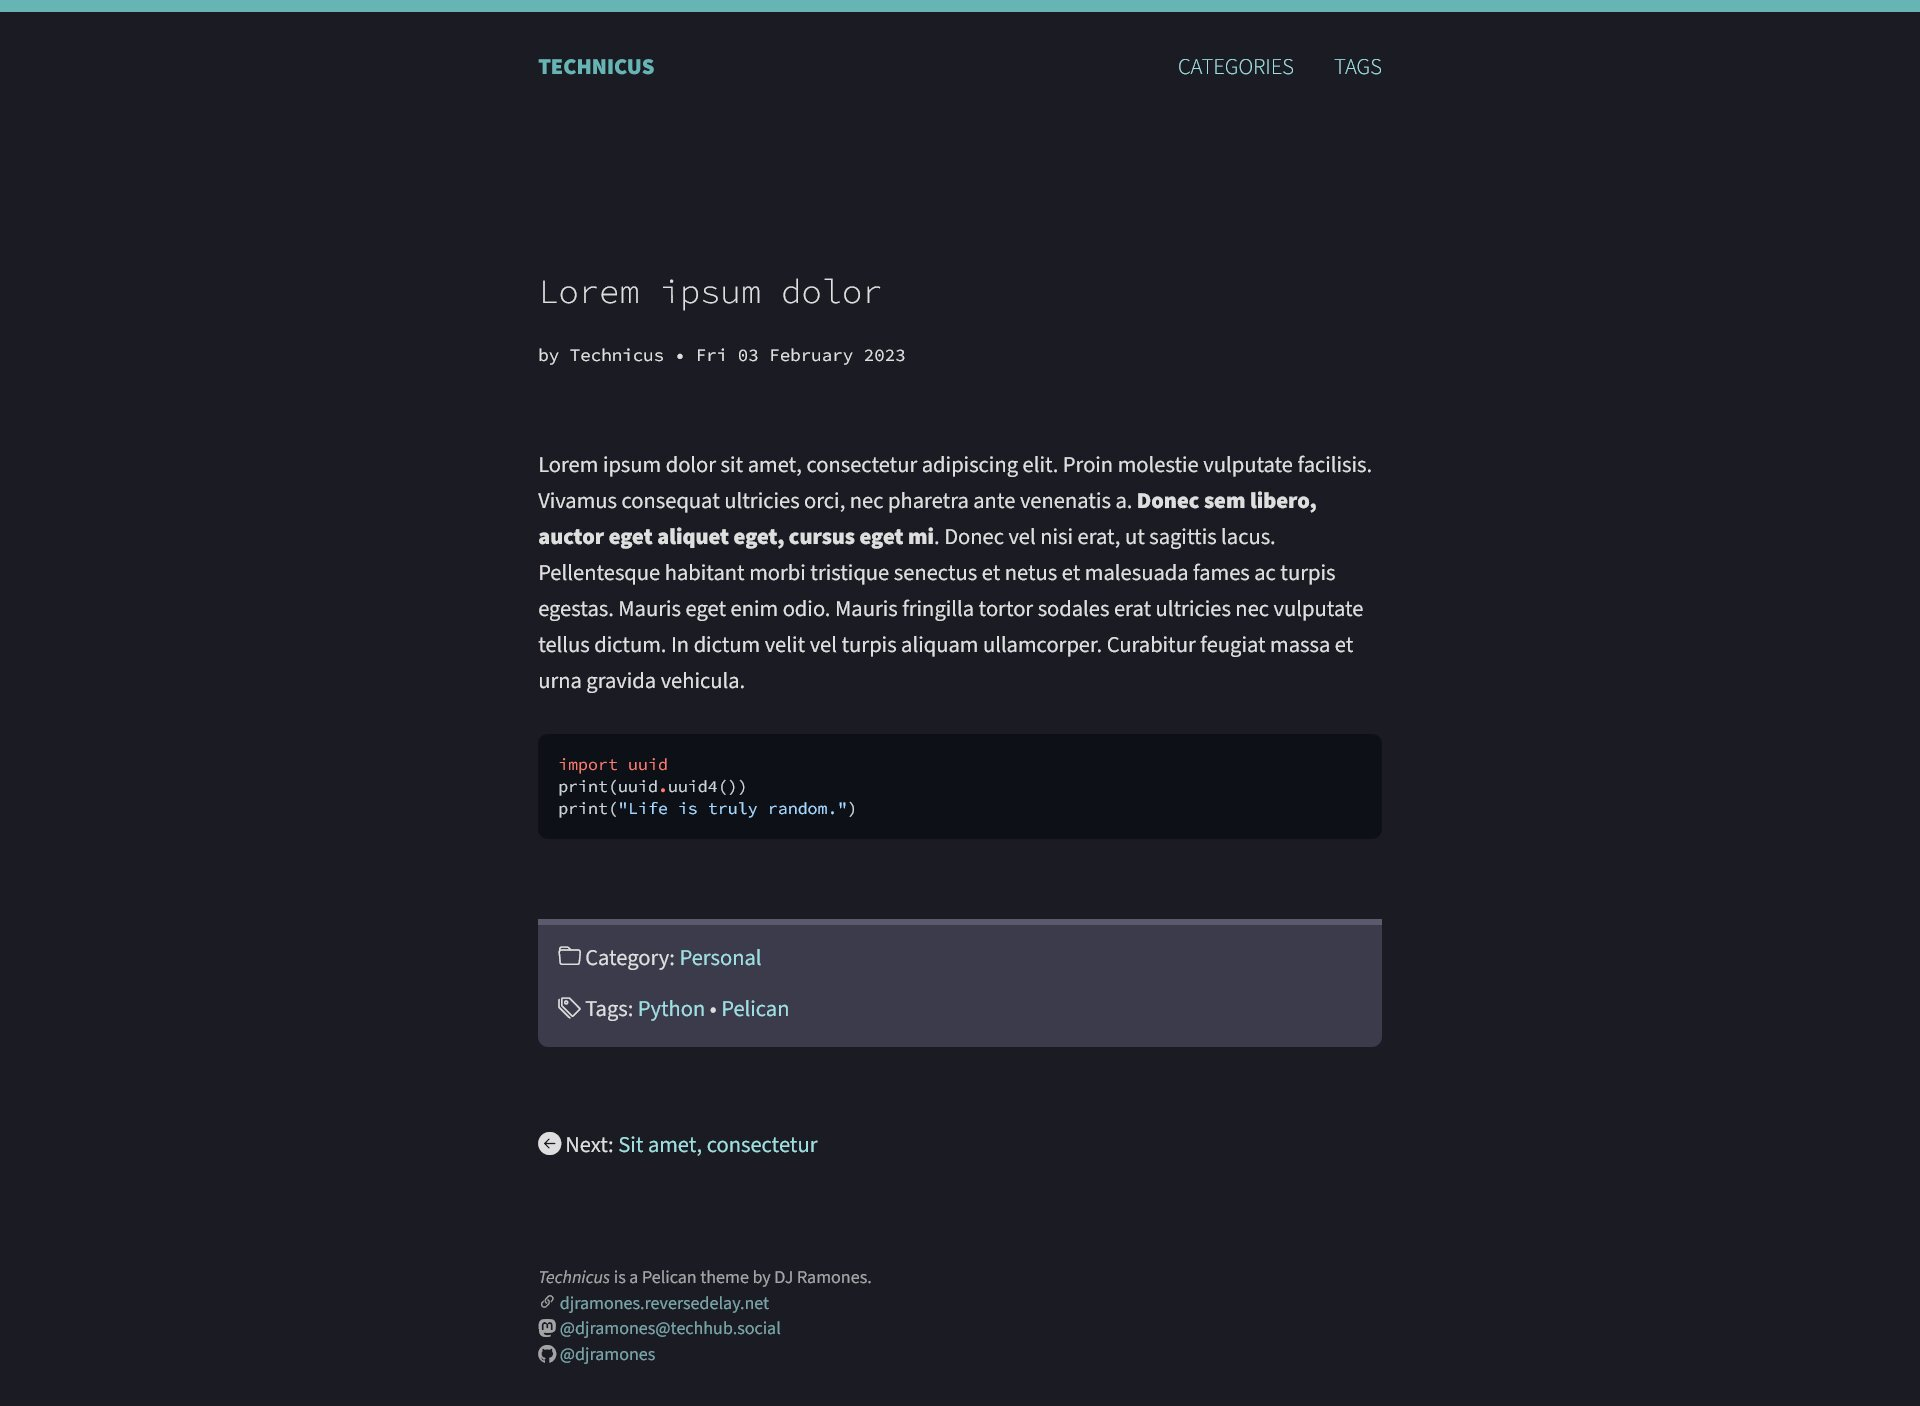
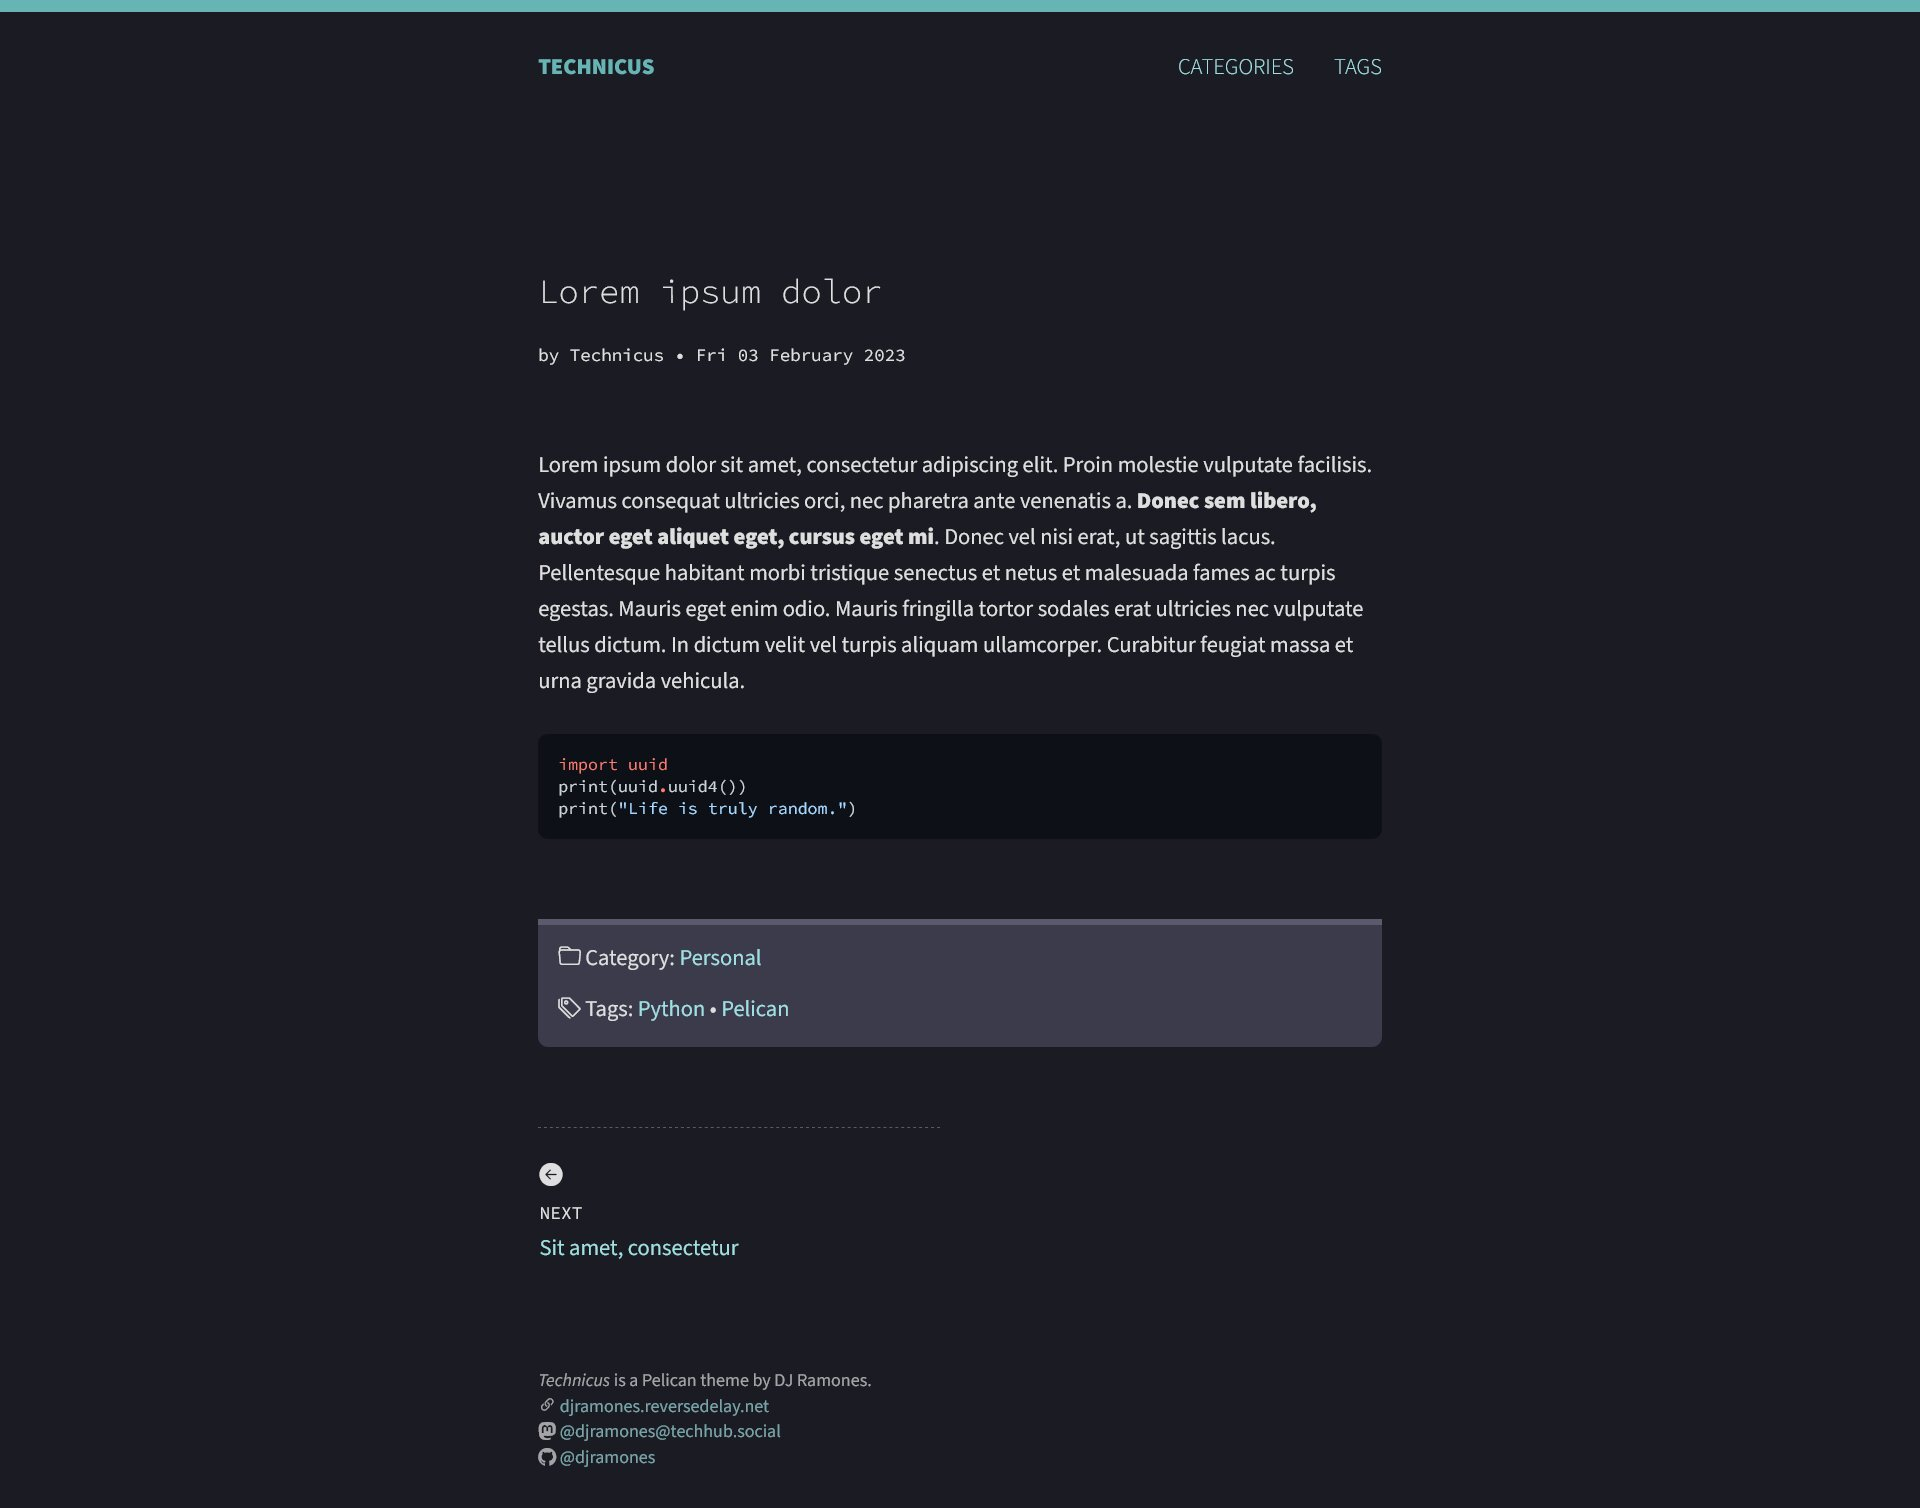
Update pagination links design

diff --git a/technicus/static/css/style.css b/technicus/static/css/style.css
@@ -74,11 +74,20 @@ body > footer:hover {
 .pagination-article {
     margin: 1rem 0;
     display: flex;
-    justify-content: space-between;
+    gap: 2rem;
 }
-.pagination-article {
-    flex-direction: column;
-    gap: 1.5rem;
+.pagination-index > div,
+.pagination-article > div {
+    flex: 1;
+    /* Fix Bootstrap icon clipping with padding: */
+    padding-left: 1px;
+    padding-right: 1px;
+}
+.pagination-index { opacity: 80%;}
+.pagination-index:hover { opacity: 100%;}
+.pagination-article-block {
+    border-top: 1px dashed #5a5a6f;
+    padding-top: 1.5rem;
 }
 
 .tags-all-list {
@@ -107,7 +116,8 @@ body {
 }
 h2, h4, h5, h6,
 time, pre, code,
-.mono {
+.mono, .pagination-index,
+.pagination-article-labels {
     font-family: 'Source Code Pro', monospace;
     line-height: 1.3;
 }
@@ -158,6 +168,21 @@ div.highlight code {
 .pagination-article,
 .article-tags {
     line-height: 1.6;
+}
+.pagination-index > div:nth-child(2),
+.pagination-article > div:nth-child(2) {
+    text-align: right;
+}
+.pagination-index-icon { font-size: 1.5em; }
+.pagination-index {
+    text-transform: uppercase;
+}
+.pagination-article {
+    overflow-wrap: anywhere;
+}
+.pagination-article-labels {
+    font-size: .8em;
+    text-transform: uppercase;
 }
 .article-content p,
 .page-content p,
@@ -235,6 +260,7 @@ div.highlight {
 /* Animations */
 
 .window-load a,
-.window-load > footer  {
+.window-load > footer,
+.window-load .pagination-index  {
     transition: all 0.5s ease-out;
 }

diff --git a/technicus/templates/article.html b/technicus/templates/article.html
@@ -76,21 +76,35 @@
 </article>
 
 <section class="pagination-article">
-  {% if article.next_article %}
-  <div>
-    <i class="bi-arrow-left-circle-fill"></i> Next:
+  <div
+    {% if article.next_article %}
+    class="pagination-article-block"
+    {% endif %}
+  >
+    {% if article.next_article %}
+    <i class="bi-arrow-left-circle-fill"></i>
+    <br>
+    <span class="pagination-article-labels">Next</span>
+    <br>
     <a href="{{ SITEURL }}/{{ article.next_article.url}}" rel="next">
       {{ article.next_article.title }}
     </a>
+    {% endif %}
   </div>
-  {% endif %}
-  {% if article.prev_article %}
-  <div>
-    <i class="bi-arrow-right-circle-fill"></i> Previous:
+  <div
+    {% if article.prev_article %}
+    class="pagination-article-block"
+    {% endif %}
+  >
+    {% if article.prev_article %}
+    <i class="bi-arrow-right-circle-fill"></i>
+    <br>
+    <span class="pagination-article-labels">Previous</span>
+    <br>
     <a href="{{ SITEURL }}/{{ article.prev_article.url}}" rel="prev">
       {{ article.prev_article.title }}
     </a>
+    {% endif %}
   </div>
-  {% endif %}
 </section>
 {% endblock %}

diff --git a/technicus/templates/index.html b/technicus/templates/index.html
@@ -35,14 +35,20 @@
 <section class="pagination-index">
   {% if articles_page.has_previous() %}
   <div>
-    <i class="bi-arrow-left-circle"></i>
-    <a href="{{ SITEURL }}/{{ articles_previous_page.url }}" rel="prev">Previous page</a>
+    <a href="{{ SITEURL }}/{{ articles_previous_page.url }}" rel="prev">
+      <i class="pagination-index-icon bi-arrow-left-square"></i>
+      <br>
+      Previous page
+    </a>
   </div>
   {% endif %}
   {% if articles_page.has_next() %}
   <div>
-    <a href="{{ SITEURL }}/{{ articles_next_page.url }}" rel="next">Next page</a>
-    <i class="bi-arrow-right-circle"></i>
+    <a href="{{ SITEURL }}/{{ articles_next_page.url }}" rel="next">
+      <i class="pagination-index-icon bi-arrow-right-square"></i>
+      <br>
+      Next page
+    </a>
   </div>
   {% endif %}
 </section>
